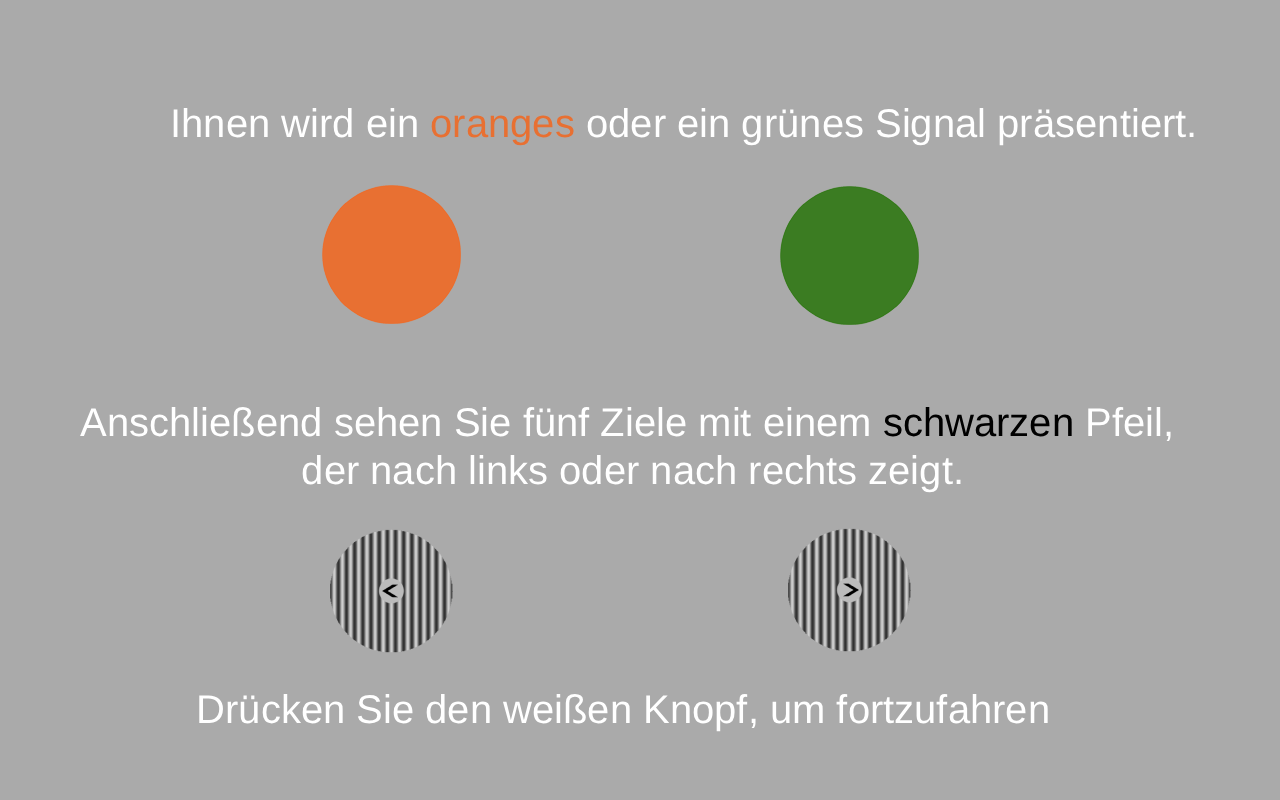
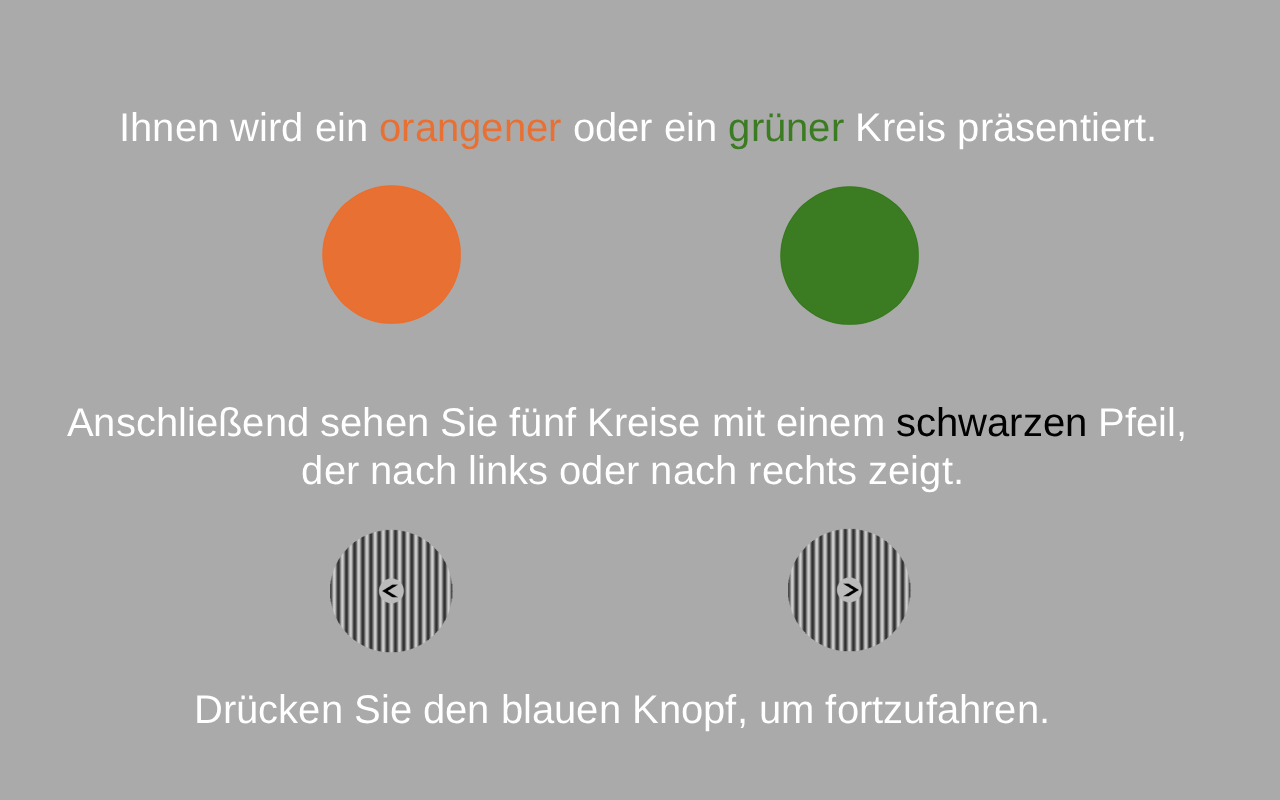
fixed German translation, checked the trigger duration impact

Changed region(s): [[0.0625, 0.5, 0.9375, 0.5625], [0.0938, 0.125, 0.9375, 0.1875], [0.1562, 0.875, 0.8125, 0.9062]]

diff --git a/PFCG_paradigm.py b/PFCG_paradigm.py
@@ -13,7 +13,6 @@ from pfcg_utils.PixelMode import drawPixelModeTrigger, print_trigger_info, Trigg
 from pypixxlib.datapixx import DATAPixx3
 
 
-
 ######### Set directories## ####################################################
 cwd_ = os.getcwd()
 datawd = os.path.join(cwd_, 'data')
@@ -69,17 +68,19 @@ if Testing:   #----------------------> # change to laptop
     monitor_width_cm    = 52.7
     monitor_size_pix    = [1280,720]
     monitor_name        = "testMonitor"
-    screen_num = 0  # Change this to the appropriate screen number for the testing setup
+    monitor_rr = 60
+    screen_num = 1  # Change this to the appropriate screen number for the testing setup
     
 else:   #----------------------> # change OPM/EEG lab port settings
     viewing_distance_cm = viewing_distance_cm if args.viewing_distance else 90
     monitor_width_cm    = 53.7
     monitor_size_pix    = [1920, 1080]
     monitor_name        = "OPM-lab"
+    monitor_rr = 120
     screen_num = 2  # Change this to the appropriate screen number for the OPM lab setup
     
 
-trigger_duration = 0.03  # Duration of trigger pulse in seconds
+trigger_duration = 1/monitor_rr  # Duration of trigger pulse in seconds
 
 # Apply Monitor Settings
 monitor = monitors.Monitor(monitor_name)
@@ -132,7 +133,7 @@ for BLOCK in block:
     # Display instruction to be steady
     instruction_text = visual.TextStim(
         win,
-        text="Bitte bleiben Sie ruhig und bewegen Sie sich während der Aufgabe nicht.",
+        text="Entspannen Sie sich und bewegen Sie sich während der Aufgabe nicht.",
         color='white',
         height=1,
         pos=(0, 0),
@@ -141,7 +142,6 @@ for BLOCK in block:
     )
     instruction_text.draw()
     win.flip()
-    event.clearEvents()
     while True:
         keys = event.getKeys(keyList=['space', 'escape'])
         if 'space' in keys:
@@ -207,7 +207,7 @@ for BLOCK in block:
         stimuli['cue_baseline'].draw()
         drawPixelModeTrigger(win, Trigger2GB(10)) 
         win.flip()
-        core.wait(trigger_duration)  # Adjusted to account for time taken by two flips and drawing the cue again
+        # core.wait(trigger_duration)  # Adjusted to account for time taken by two flips and drawing the cue again
         print_trigger_info(device) 
         stimuli['cue_baseline'].draw()
         win.flip()
@@ -256,14 +256,17 @@ for BLOCK in block:
             device.updateRegisterCache()
             win.callOnFlip(lambda: flip_marks.setdefault('t0_dev', device.getTime()))
             win.callOnFlip(timer.reset)
+            # win.callOnFlip(lambda: print(f"Flip time (timer): {timer.getTime()}"))
+  
             win.flip()
 
-            core.wait(trigger_duration)  # Wait for the duration of the trigger pulse
+            # core.wait(trigger_duration)  # Wait for the duration of the trigger pulse
             print_trigger_info(device) # Debugging output to check the video line value and timing of trigger relative to stimulus onset
             # flip just to send trigger for target, then draw the target again for the required duration  
             arrow_stimulus.draw()
+            # win.callOnFlip(lambda: print(f"Flip time (timer): {timer.getTime()}"))
             win.flip()
-            
+
             # Initialize response variables
             t_0_v = flip_marks['t0_dev']
             button_name = None
@@ -271,13 +274,12 @@ for BLOCK in block:
             reaction_time = None
             reaction_time_vpixx = None
             arrow_duration = 0.5
-            response_deadline = arrow_duration + jitter
+            # response_deadline = arrow_duration + jitter
 
             flush_button_buffer(device, myLog)  # Clear any old button presses from the buffer
             
             # Monitor for responses during target presentation (0.5s)
             while timer.getTime() < arrow_duration:
-                # keys = event.getKeys(keyList=['num_7', 'num_9', 'escape'])
 
                 button_name, timestamp = read_button_press(device, myLog)  # Check for button presses
                 if button_name is not None:
@@ -287,10 +289,11 @@ for BLOCK in block:
                     reaction_time_vpixx = timestamp - t_0_v  # Calculate reaction time based on VPixx timestamp
 
                     response_trigger_code = presenter.get_response_trigger_code(key_pressed)
+                    
                     arrow_stimulus.draw()
                     presenter.send_trigger_opm(response_trigger_code)  # send response trigger using pixel mode
                     presenter.win.flip() 
-                    core.wait(trigger_duration)  # Ensure the trigger is sent immediately
+                    # core.wait(trigger_duration)  # Ensure the trigger is sent immediately
                     print_trigger_info(device)  # Debugging output to check the video line value and timing of response trigger
                     # if key_pressed == "white":  # exit button can be reomeved if not desired to allow exit 
                     #     cleanup_and_exit(device, win)
@@ -313,12 +316,14 @@ for BLOCK in block:
                         # RT during fixation = 0.5 + time into fixation
                         reaction_time = arrow_duration + timer.getTime()
                         reaction_time_vpixx = timestamp - t_0_v  # Calculate reaction time based on VPixx timestamp
+                        
                         response_trigger_code = presenter.get_response_trigger_code(key_pressed)
+
                         stimuli['Fix_Dot'].draw()
                         presenter.send_trigger_opm(response_trigger_code)
                         presenter.win.flip() 
 
-                        core.wait(trigger_duration)  # Ensure the trigger is sent immediately
+                        # core.wait(trigger_duration)  # Ensure the trigger is sent immediately
                         print_trigger_info(device)  # Ensure the trigger is sent immediately
 
                         # if key_pressed == 'white':  # exit button can be reomeved if not desired to allow exit 
@@ -403,7 +408,7 @@ for BLOCK in block:
     )
     accuracy_text_DE = visual.TextStim(
         win,
-        text=f'Block {BLOCK}/10 ist jetzt abgeschlossen. \n\nSie waren auf {accuracy_percentage:.1f}% der Versuche korrekt.\n\nVielen Dank für Ihre Teilnahme! \n\n Wir werden jetzt eine kurze Pause einlegen, bevor der nächste Block beginnt.',
+        text=f'Block {BLOCK}/10 ist jetzt abgeschlossen. \n\nIhre Antworten waren zu {accuracy_percentage:.1f}% richtig.\n\nVielen Dank für Ihre Teilnahme! \n\n Wir werden jetzt eine kurze Pause einlegen, bevor der nächste Block beginnt.',
         color='white',
         height=1,
         pos=(0, 0),

diff --git a/PFCG_cfg.py b/PFCG_cfg.py
@@ -34,13 +34,13 @@ def preload_stimuli(win, stimuliwd, DE=True):
     
     welcome_text = visual.TextStim(win, text='Welcome to the experiment! \n\nPress 8 when you are ready to start.', color='white', 
                                 height=1, pos=(0, 0), units='deg', wrapWidth=60)
-    welcome_text_DE = visual.TextStim(win, text='Willkommen zum Experiment! \n\nDrücken Sie die blauen Taste, wenn Sie bereit sind zu beginnen.', color='white', 
+    welcome_text_DE = visual.TextStim(win, text='Willkommen zum Experiment! \n\nDrücken Sie den blauen Knopf, wenn Sie bereit sind zu beginnen.', color='white', 
                                 height=1, pos=(0, 0), units='deg', wrapWidth=60)
 
     welcome_practice = visual.TextStim(win, text='Welcome to the practice blocks of the experiment! \n\nPress 8 when you are ready to start.', color='white', 
                                 height=1, pos=(0, 0), units='deg', wrapWidth=60)
     
-    welcome_practice_DE = visual.TextStim(win, text='Willkommen zu den Übungsblöcken des Experiments! \n\nDrücken Sie die blauen Taste, wenn Sie bereit sind zu beginnen.', color='white',
+    welcome_practice_DE = visual.TextStim(win, text='Willkommen zu den Übungsblöcken des Experiments! \n\nDrücken Sie den blauen Knopf, wenn Sie bereit sind zu beginnen.', color='white',
                                 height=1, pos=(0, 0), units='deg', wrapWidth=60)
 
     RS_text = visual.TextStim(win, text='We begin by taking a resting state OPM. We ask you to look at following fixation, moving as little as possible, for one minute. When you are ready, press the space bar to begin', color='white', 
@@ -50,7 +50,7 @@ def preload_stimuli(win, stimuliwd, DE=True):
 
     begin_text = visual.TextStim(win, text='The task will now begin. \n\nPlease try to respond as accurately as possible. \n\nPress 8 when you are ready to start.', color='white', 
                                 height=1, pos=(0, 0), units='deg', wrapWidth=60)
-    begin_text_DE = visual.TextStim(win, text='Die Aufgabe beginnt jetzt. \n\nBitte versuchen Sie, so genau wie möglich zu antworten. \n\nDrücken Sie die blauen Taste, wenn Sie bereit sind zu beginnen.', color='white', 
+    begin_text_DE = visual.TextStim(win, text='Die Aufgabe beginnt jetzt. \n\nBitte versuchen Sie, so genau wie möglich zu antworten. \n\nDrücken Sie den blauen Knopf, wenn Sie bereit sind zu beginnen.', color='white', 
                                 height=1, pos=(0, 0), units='deg', wrapWidth=60)
                                 
     # instructions

diff --git a/PFCG_paradigm_practice.py b/PFCG_paradigm_practice.py
@@ -7,11 +7,11 @@ import numpy as np
 from psychopy import core, visual, event, monitors
 
 from PFCG_cfg import stimwd, datawd, preload_stimuli
-from pfcg_utils.utils_bottons import flush_button_buffer,cleanup_and_exit, read_button_press, stopButtons
+from pfcg_utils.utils_bottons import flush_button_buffer, read_button_press
 from pfcg_utils.utils_stimuli import StimulusPresenter
 from pfcg_utils.utils_trials import get_block_trialtypes, get_block_cuetypes
 # from pfcg_utils.buttons import collect_response, flush_buttons
-from pfcg_utils.PixelMode import drawPixelModeTrigger,  print_trigger_info, GB2trigger, Trigger2GB
+# from pfcg_utils.PixelMode import drawPixelModeTrigger,  print_trigger_info, GB2trigger, Trigger2GB
 from pypixxlib.datapixx import DATAPixx3
 
 
@@ -216,7 +216,7 @@ for group_idx in range(num_groups):
                 reaction_time = timer.getTime()
                 reaction_time_vpixx = timestamp - t_0_v  # Calculate reaction time based on VPixx timestamp
 
-                response_trigger_code = presenter.get_response_trigger_code(key_pressed)
+                # response_trigger_code = presenter.get_response_trigger_code(key_pressed)
                 # presenter.send_trigger_opm(response_trigger_code)  # send response trigger using pixel mode
                 # presenter.win.flip()  # Ensure the trigger is sent immediately
 
@@ -235,7 +235,7 @@ for group_idx in range(num_groups):
                     # RT during fixation = 0.5 + time into fixation
                     reaction_time = arrow_duration + timer.getTime()
                     reaction_time_vpixx = timestamp - t_0_v  # Calculate reaction time based on VPixx timestamp
-                    response_trigger_code = presenter.get_response_trigger_code(key_pressed)
+                    # response_trigger_code = presenter.get_response_trigger_code(key_pressed)
                     # presenter.send_trigger_opm(response_trigger_code)
                     # presenter.win.flip()  # Ensure the trigger is sent immediately
 
@@ -323,7 +323,7 @@ if total_trials > 0:
 else:
     accuracy_percentage = 0
 
-text_DE=f'Übung abgeschlossen!\n\nSie waren bei {accuracy_percentage:.1f}% der Versuche korrekt.\n\nDrücken Sie den weißen Knopf, um fortzufahren.'
+text_DE=f'Übung abgeschlossen!\n\nSie waren bei {accuracy_percentage:.1f}% der Versuche korrekt.\n\nDrücken Sie den blauen Knopf, um fortzufahren.'
 
 # Create accuracy feedback text
 accuracy_text = visual.TextStim(

diff --git a/pfcg_utils/utils_stimuli.py b/pfcg_utils/utils_stimuli.py
@@ -37,7 +37,7 @@ class StimulusPresenter:
             stimulus.draw()
             self.send_trigger_opm(trigger_code)
             self.win.flip()
-            core.wait(self.trigger_duration)
+            # core.wait(self.trigger_duration)
             print_trigger_info(device)
             stimulus.draw()
             self.win.flip()
